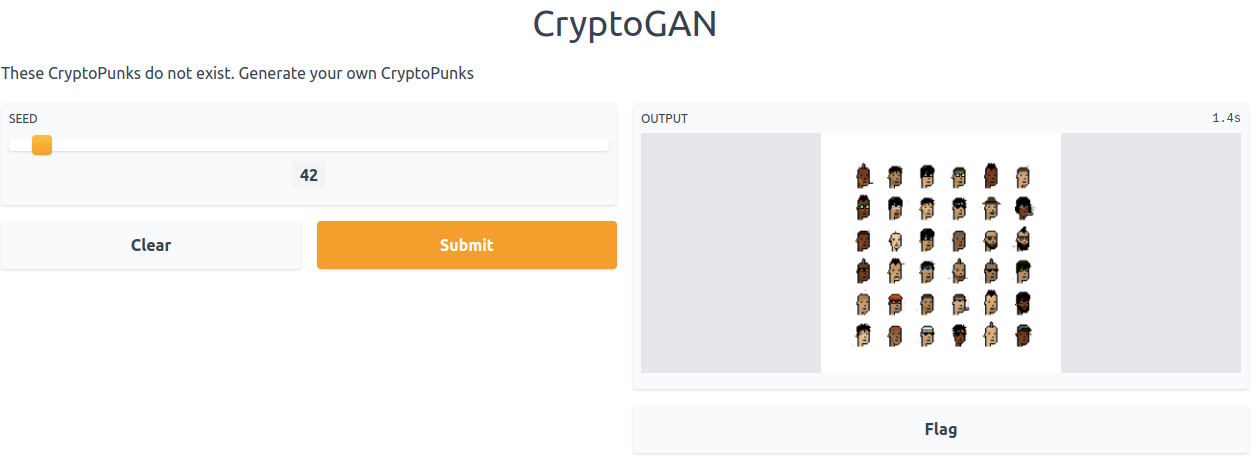
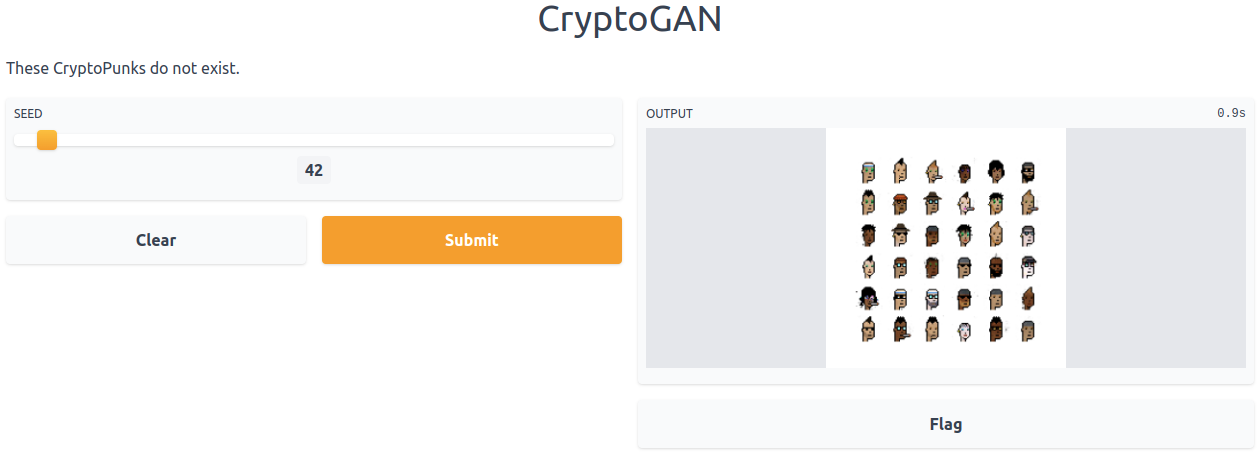
Adding CryptoPunk captcha app

diff --git a/hf_captcha_app.py b/hf_captcha_app.py
@@ -1,0 +1,81 @@
+import glob
+import random
+import numpy as np
+import streamlit as st
+import tensorflow as tf
+import matplotlib.pyplot as plt
+from huggingface_hub import from_pretrained_keras
+
+
+@st.cache(allow_output_mutation=True)
+def load_model():
+    generator = from_pretrained_keras("huggan/crypto-gan")
+    return generator
+
+def generate(n_images, generator, seed=42, codings_size=100):
+    noise = tf.random.normal(shape=[n_images, codings_size], seed=seed)
+    generated_images = generator(noise, training=False)
+    return generated_images.numpy()
+
+def get_captcha(images, indexes):
+    fake_idx = []
+    fig, axis = plt.subplots(3, 3, figsize=(10, 10))
+    axis = axis.flatten()
+
+    for ax_idx, idx in enumerate(indexes):
+        if indexes[idx] < n_fake:
+            fake_idx.append(idx)
+        axis[ax_idx].imshow(images[idx])
+        axis[ax_idx].set_title(f"Punk {ax_idx+1}")
+        axis[ax_idx].axis('off')
+    return fig, fake_idx
+
+def get_challenge():
+    seed = random.randint(0, 1000)
+    real_idx = np.random.randint(low=0, high=len(real_files), size=n_real)
+    real_samples = np.array([plt.imread(real_files[idx]) for idx in real_idx])
+    generated_samples = generate(n_fake, generator, seed)
+    captcha_samples = np.concatenate((generated_samples, real_samples))
+
+    captcha_idx = [x for x in range(len(captcha_samples))]
+    random.shuffle(captcha_idx)
+
+    fig, fake_idx = get_captcha(captcha_samples, captcha_idx)
+    correct_answer = [f"Punk {x+1}" for x in fake_idx]
+    correct_answer.sort()
+    st.session_state.session_captcha = fig
+    st.session_state.correct = correct_answer
+
+# Session captcha
+if 'session_captcha' not in st.session_state:
+    st.session_state['session_captcha'] = None
+if 'correct' not in st.session_state:
+    st.session_state['correct'] = []
+
+n_real = 6
+n_fake = 3
+n_samples = n_real + n_fake
+real_images_path = "./data/images"
+real_files = glob.glob(f"{real_images_path}/*")
+generator = load_model()
+
+st.title("CryptoPunk Captcha")
+st.header("Are you a human?")
+st.subheader("Choose the 3 fake CryptoPunks")
+
+if st.session_state.session_captcha is None:
+    get_challenge()
+
+st.pyplot(st.session_state.session_captcha) # Display captcha
+options = st.multiselect('Choose',[f"Punk {x+1}" for x in range(n_samples)]) # Selected options
+to_verify = st.button("Verify")
+
+if to_verify:
+    options.sort()
+    verified = st.session_state.correct == options
+    if verified:
+        st.write("Correct")
+    else:
+        st.write("Wrong")
+        get_challenge() # Refresh challenge
+        st.button("Try again?")

diff --git a/captcha_app.py b/captcha_app.py
@@ -1,0 +1,80 @@
+import glob
+import random
+import numpy as np
+import streamlit as st
+import tensorflow as tf
+import matplotlib.pyplot as plt
+
+
+@st.cache(allow_output_mutation=True)
+def load_model():
+    generator = tf.keras.models.load_model("./models/")
+    return generator
+
+def generate(n_images, generator, seed=42, codings_size=100):
+    noise = tf.random.normal(shape=[n_images, codings_size], seed=seed)
+    generated_images = generator(noise, training=False)
+    return generated_images.numpy()
+
+def get_captcha(images, indexes):
+    fake_idx = []
+    fig, axis = plt.subplots(3, 3, figsize=(10, 10))
+    axis = axis.flatten()
+
+    for ax_idx, idx in enumerate(indexes):
+        if indexes[idx] < n_fake:
+            fake_idx.append(idx)
+        axis[ax_idx].imshow(images[idx])
+        axis[ax_idx].set_title(f"Punk {ax_idx+1}")
+        axis[ax_idx].axis('off')
+    return fig, fake_idx
+
+def get_challenge():
+    seed = random.randint(0, 1000)
+    real_idx = np.random.randint(low=0, high=len(real_files), size=n_real)
+    real_samples = np.array([plt.imread(real_files[idx]) for idx in real_idx])
+    generated_samples = generate(n_fake, generator, seed)
+    captcha_samples = np.concatenate((generated_samples, real_samples))
+
+    captcha_idx = [x for x in range(len(captcha_samples))]
+    random.shuffle(captcha_idx)
+
+    fig, fake_idx = get_captcha(captcha_samples, captcha_idx)
+    correct_answer = [f"Punk {x+1}" for x in fake_idx]
+    correct_answer.sort()
+    st.session_state.session_captcha = fig
+    st.session_state.correct = correct_answer
+
+# Session captcha
+if 'session_captcha' not in st.session_state:
+    st.session_state['session_captcha'] = None
+if 'correct' not in st.session_state:
+    st.session_state['correct'] = []
+
+n_real = 6
+n_fake = 3
+n_samples = n_real + n_fake
+real_images_path = "./data/images"
+real_files = glob.glob(f"{real_images_path}/*")
+generator = load_model()
+
+st.title("CryptoPunk Captcha")
+st.header("Are you a human?")
+st.subheader("Choose the 3 fake CryptoPunks")
+
+if st.session_state.session_captcha is None:
+    get_challenge()
+
+st.pyplot(st.session_state.session_captcha) # Display captcha
+options = st.multiselect('Choose',[f"Punk {x+1}" for x in range(n_samples)]) # Selected options
+to_verify = st.button("Verify")
+
+if to_verify:
+    options.sort()
+    verified = st.session_state.correct == options
+    if verified:
+        st.write("Correct")
+    else:
+        st.write("Wrong")
+        get_challenge() # Refresh challenge
+        st.button("Try again?")

diff --git a/hf_app.py b/hf_app.py
@@ -9,11 +9,6 @@ codings_size = 100
 generator = from_pretrained_keras("huggan/crypto-gan")
 
 
-def post_process(image):
-    image = ((image + 1) / 2) # scale back
-    return image
-
-
 def generate(seed):
     noise = tf.random.normal(shape=[n_images, codings_size], seed=seed)
     generated_images = generator(noise, training=False)
@@ -21,7 +16,7 @@ def generate(seed):
     fig = plt.figure(figsize=(10, 10))
     for i in range(generated_images.shape[0]):
         plt.subplot(6, 6, i+1)
-        plt.imshow(post_process(generated_images[i, :, :, :]), cmap="binary")
+        plt.imshow(generated_images[i, :, :, :])
         plt.axis("off")
     return fig
 
@@ -30,4 +25,4 @@ gr.Interface(fn=generate,
             inputs=[gr.inputs.Slider(label='Seed', minimum=0, maximum=1000, default=42)], 
             outputs=gr.outputs.Image(type="plot"), 
             title="CryptoGAN", 
-            description="These CryptoPunks do not exist. Generate your own CryptoPunks").launch()
+            description="These CryptoPunks do not exist.").launch()

diff --git a/app.py b/app.py
@@ -8,11 +8,6 @@ codings_size = 100
 generator = tf.keras.models.load_model("./models/")
 
 
-def post_process(image):
-    image = ((image + 1) / 2) # scale back
-    return image
-
-
 def generate(seed):
     noise = tf.random.normal(shape=[n_images, codings_size], seed=seed)
     generated_images = generator(noise, training=False)
@@ -20,7 +15,7 @@ def generate(seed):
     fig = plt.figure(figsize=(10, 10))
     for i in range(generated_images.shape[0]):
         plt.subplot(6, 6, i+1)
-        plt.imshow(post_process(generated_images[i, :, :, :]), cmap="binary")
+        plt.imshow(generated_images[i, :, :, :])
         plt.axis("off")
     return fig
 
@@ -29,4 +24,4 @@ gr.Interface(fn=generate,
             inputs=[gr.inputs.Slider(label='Seed', minimum=0, maximum=1000, default=42)], 
             outputs=gr.outputs.Image(type="plot"), 
             title="CryptoGAN", 
-            description="These CryptoPunks do not exist. Generate your own CryptoPunks").launch()
+            description="These CryptoPunks do not exist.").launch()

diff --git a/README.md b/README.md
@@ -5,7 +5,10 @@ This is a simple TensorFlow implementation of a DCGAN to generate CryptoPunks
 
 > CryptoPunks generated by this work
 
-This repository was created during the HuggingFace's [HugGAN sprint](https://github.com/huggingface/community-events/tree/main/huggan), so you can also checkout this work's results at its [HuggingFace hub entry](https://huggingface.co/huggan/crypto-gan) and [HuggingFace sapce](https://huggingface.co/spaces/huggan/crypto-gan)
+This repository was created during the HuggingFace's [HugGAN sprint](https://github.com/huggingface/community-events/tree/main/huggan). You can also checkout its related entries:
+- [Model card (HF hub)](https://huggingface.co/huggan/crypto-gan)
+- [CryptoPunks generation (HF space)](https://huggingface.co/spaces/huggan/crypto-gan)
+- [CryptoPunk Captcha (HF space)](https://huggingface.co/spaces/huggan/cryptopunk-captcha)
 
 
 # Usage
@@ -15,14 +18,9 @@ This repository was created during the HuggingFace's [HugGAN sprint](https://git
 python3 train.py
 ```
 
-## Inference using Gradio
-<img src="./assets/gradio_inference.png" width="900" height="300">
+## Inference using Gradio (CryptoPunk generation)
+<img src="./assets/gradio_inference.png" width="850" height="300">
 
-### Using model from HuggingFace hub
-This will download the generator model from HuggingFace hub and serve it.
-```bash
-python3 hf_app.py
-```
 
 ### Using your own model
 This requires you to have a `models` folder at root with a generator model.
@@ -30,15 +28,27 @@ This requires you to have a `models` folder at root with a generator model.
 python3 app.py
 ```
 
-# Notes
+### Using a model from HuggingFace hub
+This will download the generator model from HuggingFace hub and serve it.
+```bash
+python3 hf_app.py
+```
+
+## Inference using Streamlit (CryptoPunk Captcha)
+<img src="./assets/streamlit_inference.png" width="350" height="500">
+
+### Using your own model
+This requires you to have a `models` folder at root with a generator model.
+```bash
+streamlit run captcha_app.py
+```
+
+### Using a model from HuggingFace hub
+This will download the generator model from HuggingFace hub and serve it.
+```bash
+streamlit run hf_captcha_app.py
+```
 
 # References
 - [CryptoPunks GAN](https://github.com/teddykoker/cryptopunks-gan)
 - [Deep Convolutional Generative Adversarial Network](https://www.tensorflow.org/tutorials/generative/dcgan)
-
-# TODO list
-- [ ] Update notebooks to use this repository as reference.
-- [ ] Update [HF model card]((https://huggingface.co/huggan/crypto-gan)).
-- [ ] Improve model, it needs to generate more diverse punks.
-- [ ] Do better data sampling with TFDataset (might need to move out from TFDatasets).
-- [ ] Integrate pre_processing and post_processing into the TF model graph
